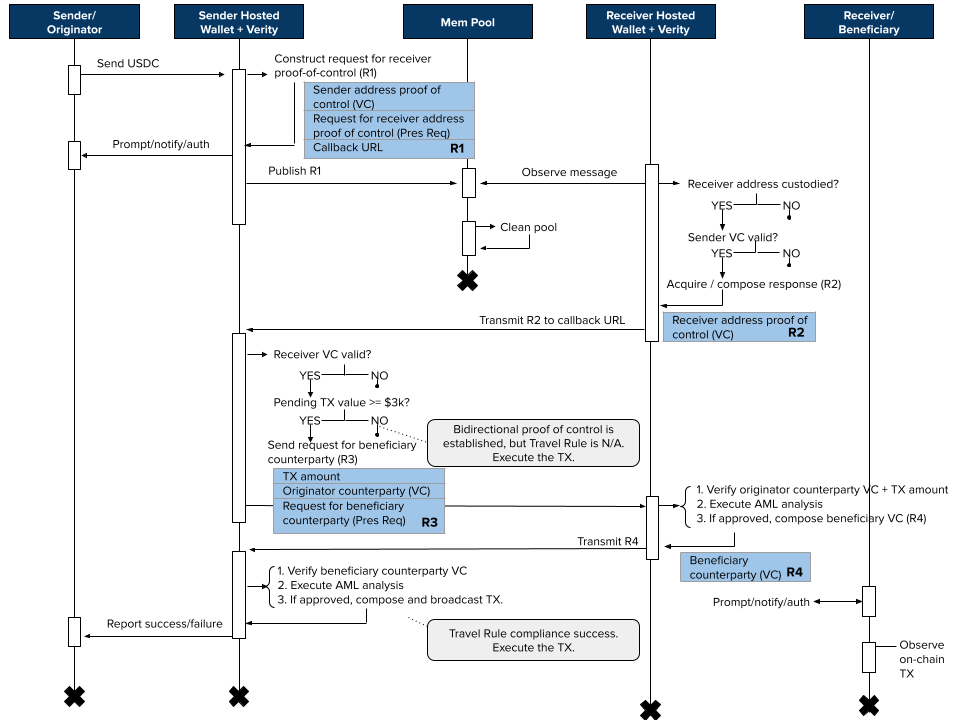
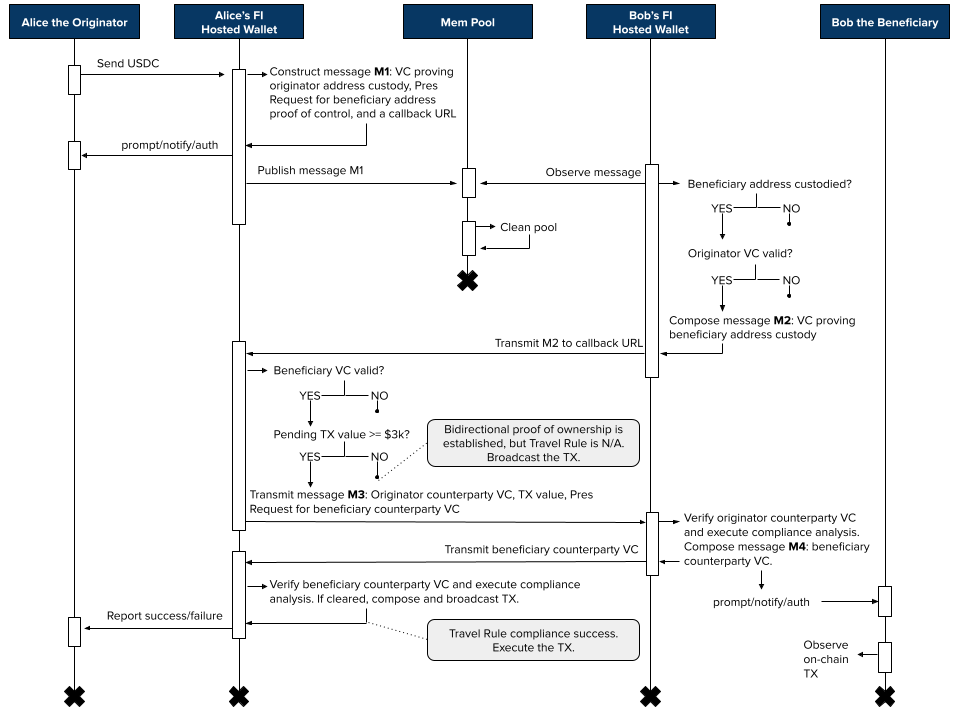
travel rule doc update (#246)

diff --git a/packages/docs/docs/patterns/travel-rule.md b/packages/docs/docs/patterns/travel-rule.md
@@ -2,55 +2,53 @@
 sidebar_position: 7
 ---
 
-# Travel Rule
+# Travel Rule Implementations
 
-The Verity open source includes a demonstration of how verifiable credentials can be used as part of an efficient, privacy-preserving protocol enabling custodied wallet providers to comply with counterparty regulatory obligations.
+The Verity open source examples include a demonstration of how exchanging verifiable credentials may be helpful in implementing a scalable mechanism for financial institutions to comply with Travel Rule regulations.
 
-## Sequence
+## About the Travel Rule
+
+The "Travel Rule" refers to the [U.S. Bank Secrecy Act rule](https://www.sec.gov/about/offices/ocie/aml2007/fincen-advissu7.pdf) as well as guidance defined by the international [Financial Action Task Force (FATF) Recommendation 16](https://www.fatf-gafi.org/publications/fatfrecommendations/documents/guidance-rba-virtual-assets-2021.html). The Travel Rule requires Financial Insitutions (FIs) and what FATF refers to as Virtual Asset Service Providers (VASPs) to exchange and analyze specific PII data about the originator and beneficiary of a given transaction when such a transaction exceeds a threshold of notional value (the threshold is 3000 USD value for the US BSA version and 1000 USD/EUR value for FATF version). The purpose of these regulations is to police financial crime such as money laundering, block terrorist financing, stop payments to sanctioned entities and countries, and support the reporting of suspicious activities.
+
+Mapping Travel Rule requirements to blockchain transactions poses several challenges. One such problem is "discoverablility" -- knowing when a beneficiary/recipient address is managed by a financial institution and therefore when Travel Rule obligations exist, and furthermore how to contact the recipient institution to execute secure counterparty data exchange. At broadcast time, the originator of a blockchain transaction has no means of knowing whether a recipient address is custodied by a financial institution or VASP, and no means of directly contacting the owner or custodian of that address.
+
+The crypto ecosystem has proposed many potential solutions to this problem: maintaining registries of known blockchain addresses mapped to VASP network endpoints, maintaining a network of VASP nodes which FIs can query/poll prior to transaction broadcasts, leveraging analytics services and tools that glean metadata about addresses, transacting only on permissioned networks or specific chains designed with different identity capabilities, introducing new identifier schemes for transacting customers, or a hybrid combination of these approaches.
+
+Verity's example addresses these problems by bootstrapping verifiable credentials exchange using a decentralized mem pool pattern, mirroring the memory/transaction pool pattern that most blockchains use prior to updating their ledgers. This approach may be more scalable than registry and private network approaches and also more privacy-preserving and potentially more accurate than analytics approaches alone. Mem pools are effectively decentralized messaging architectures that allow nodes to publish and subscribe/observe messages in peer-to-peer fashion. In blockchains, the messages represent transactions; wallets publish to them and observers can then validate or mine them. Verity uses the same concept to broadcast a privacy-preserving message about the intent to broadcast a future transaction (without sharing its value) on a given chain.
+
+## Discovery and Credentials Exchange Sequence
 
 <img src="/img/docs/travel_rule.png" alt="Travel Rule" width="800"/>
 
-### Part 1 - Proof of Control
+### Part 1: Discovery and Proving Control of Blockchain Addresses
 
-1. The customer initiates a transfer with their hosted wallet
-2. The hosted wallet forms a request (referred to as "R1"), containing:
-   - Proof of control of the sending address (Verifiable Credential)
-   - Request for proof of control of the receiver address (Presentation Request)
-   - A Callback URL
-3. The wallet notifies the customer that personal data will be shared and asks for consent
-4. The wallet forwards R1 to a mempool monitored by other interested parties
-5. The hosted wallet provider (on their behalf) observes the message for a recipient address under its control, verifies the sender VC, and constructs the receiver proof of control (R2)
-6. Sends R2
+1. Alice, the originator, initiates a transfer with her financial institution, which operates a hosted crypto wallet on her behalf.
+2. Alice's FI forms a message (referred to here as "M1"), containing:
+   - Proof of control of the originating address (formatted as a Verifiable Credential)
+   - Request for proof of control of the beneficairy address (formatted as a Presentation Request)
+   - A secure callback URL endpoint for replies to the Presentation Request
+3. Alice's FI publishes M1 to the decentralized mem pool.
+4. Bob's financial institution observes M1 in the mem pool and determines that the recipient address is in its custody, and it verifies the originator's VC.
+5. Bob's financial institution constructs message "M2" which is a VC proving control over the beneficiary address.
+6. Bob's FI transmits M2 privately to Alice's FI using the callback URL specificed in M1.
+7. Alice's FI receives and verifies the VC in M2, leaving both Alice's FI and Bob's FI (a) certain that each controls the designated addresses and (b) with a private secure network connection established through the specified callback URL.
 
-TODO: link to schemas
+Before the transaction is broadcast, the sending and receiving FIs use the chain-agnostic mempool to publish and observe messages establishing and requesting proof of address control. These messages contain no customer data and no specific transaction data. Since the transaction amount is not included, observers are unable to determine information about the planned transaction other than its intended origin and destination (this is less information than is available in a typical mem pool, in which the actual monetary transaction is broadcast). This allows counterparty endpoints to find and connect to one another privately before exchanging counterparty information, and the proof of address credentials prevent other parties from spoofing the originator or beneficiary.
 
-### Part 1 Discussion
+### Part 2: Exchange of Counterparty Credentials
 
-Before the transaction is broadcast, the sending and receiving wallet providers use the chain-agnostic mempool to publish and observe messages establishing and requesting proof of address control. These messages contain no customer data -- just the address with proof (not even the tx amount is included). This allows them to identify the correct counterparty and privately share, via the callback URL, customer data only after that party is established.
-
-### Part 2 - Exchange of Counterparty Credentials
-
-Once a matching set of providers found:
-
-1. The sending wallet verifies the receiver's proof of ownership.
-1. If the transaction amount is over $3,000 the sending wallet sends a request (R3), containing:
+1. If the transaction's value triggers the Travel Rule threshold, Alice's FI responds to Bob's FI by composing a private message "M3" containing:
    - Transaction amount
-   - Originating counterparty (Verifiable Credential)
-   - Request for beneficiary counterparty credentials (Presentation Request)
-1. The receiver's wallet:
-   - Verifies the originators counterparty credential
-   - Performs necessary AML
-1. If approved, receiver sends beneficiary counterparty credentials (R4).
-1. The sender's wallet:
-   - Verifies the the beneficiary credential
-   - Performs necessary AML
-1. If approved, the sending wallet executes the transaction.
+   - Alice's originating counterparty verifiable credential
+   - Presentation Request for beneficiary counterparty credentials
+2. Bob's FI receives M3 and verifies the originator counterparty verifiable credential, and then executes its internal compliance procedures.
+3. Once Bob's FI clears the information, it generates message "M4" containing Bob's beneficiary counterparty verifiable credential.
+4. Bob transmits M4 to the secure callback URL endpoint.
+5. Alice's FI receives M4 and verifies Bob's beneficiary counterparty verifiable credential, and then executes its internal compliance procedures.
+6. Once Alice's FI clears the information, it broadcasts the planned transaction to the appropriate blockchain's mem pool to execute the exchange of value.
 
-### Part 2 Discussion
+If the transaction does not meet the threshold required for the Travel Rule, then Part 2 is not necessary and does not apply, as Alice's FI can simply broadcast the blockchain transaction. If the Travel Rule does apply, however, both financial insitutions are able to exchange counterparty verifiable credentials over callback URLs that allow for private off-chain secure communication. Although traditional financial institutions typically have terms and conditions that grant the rights to transfer this private information, Verity's demonstration surfaces notifications as alerts to customers so that they have visibility into when their data is requested, and to provide them the choice to cancel sending or receiving transactions that require such counterparty credentials exchange.
 
-If the transaction does not meet the threshold required for the Travel Rule, the sending wallet can execute the transaction. Otherwise, counterparty credentials must be exchanged. It is important to note that by this part, both wallet providers have exchanged callback URLs that allow for off-chain, private, and secure communication of relevant counterparty credentials.
+## Future Development
 
-## Additional Implementation Notes
-
-- The receiving customer may receive the request through a push notification to their mobile device or in-browser (notified by an email or other alert).
-- These credentials may be created in advance or dynamically
+Note that this sequence is intended only as a demonstration of how exchanging verifiable credentials may be helpful with Travel Rule requirements. Production-level topics such as mem pool spam prevention, multisignature counterparties, and private key security protections are beyond the current scope and are among several subjects to address in future development and exploration.
